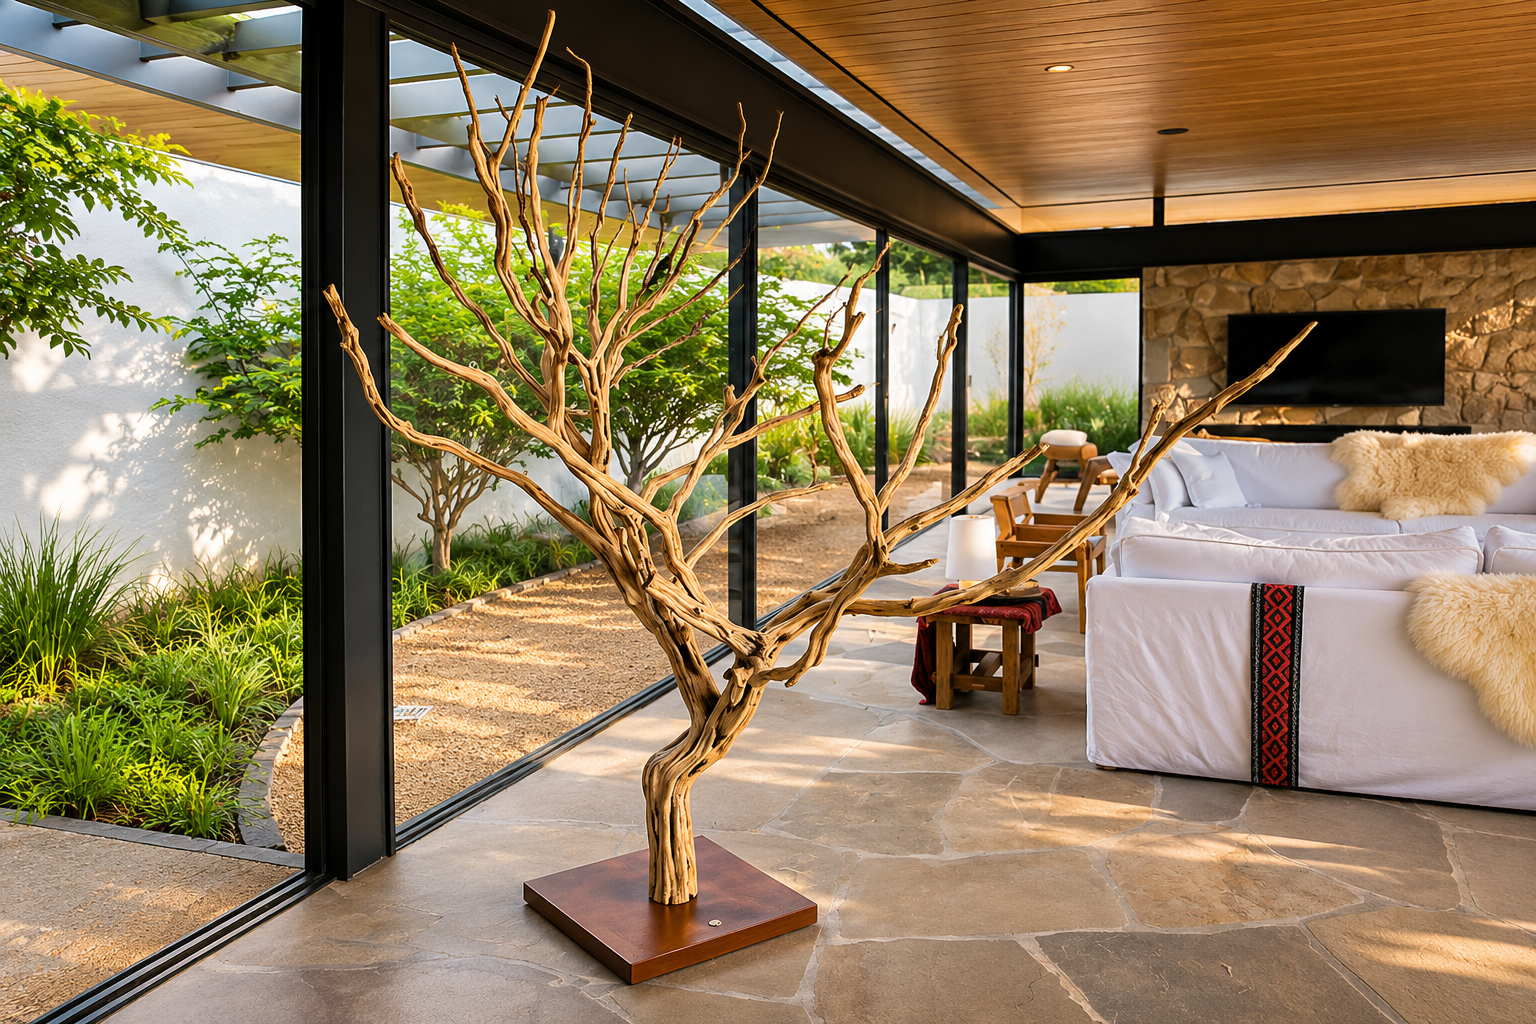
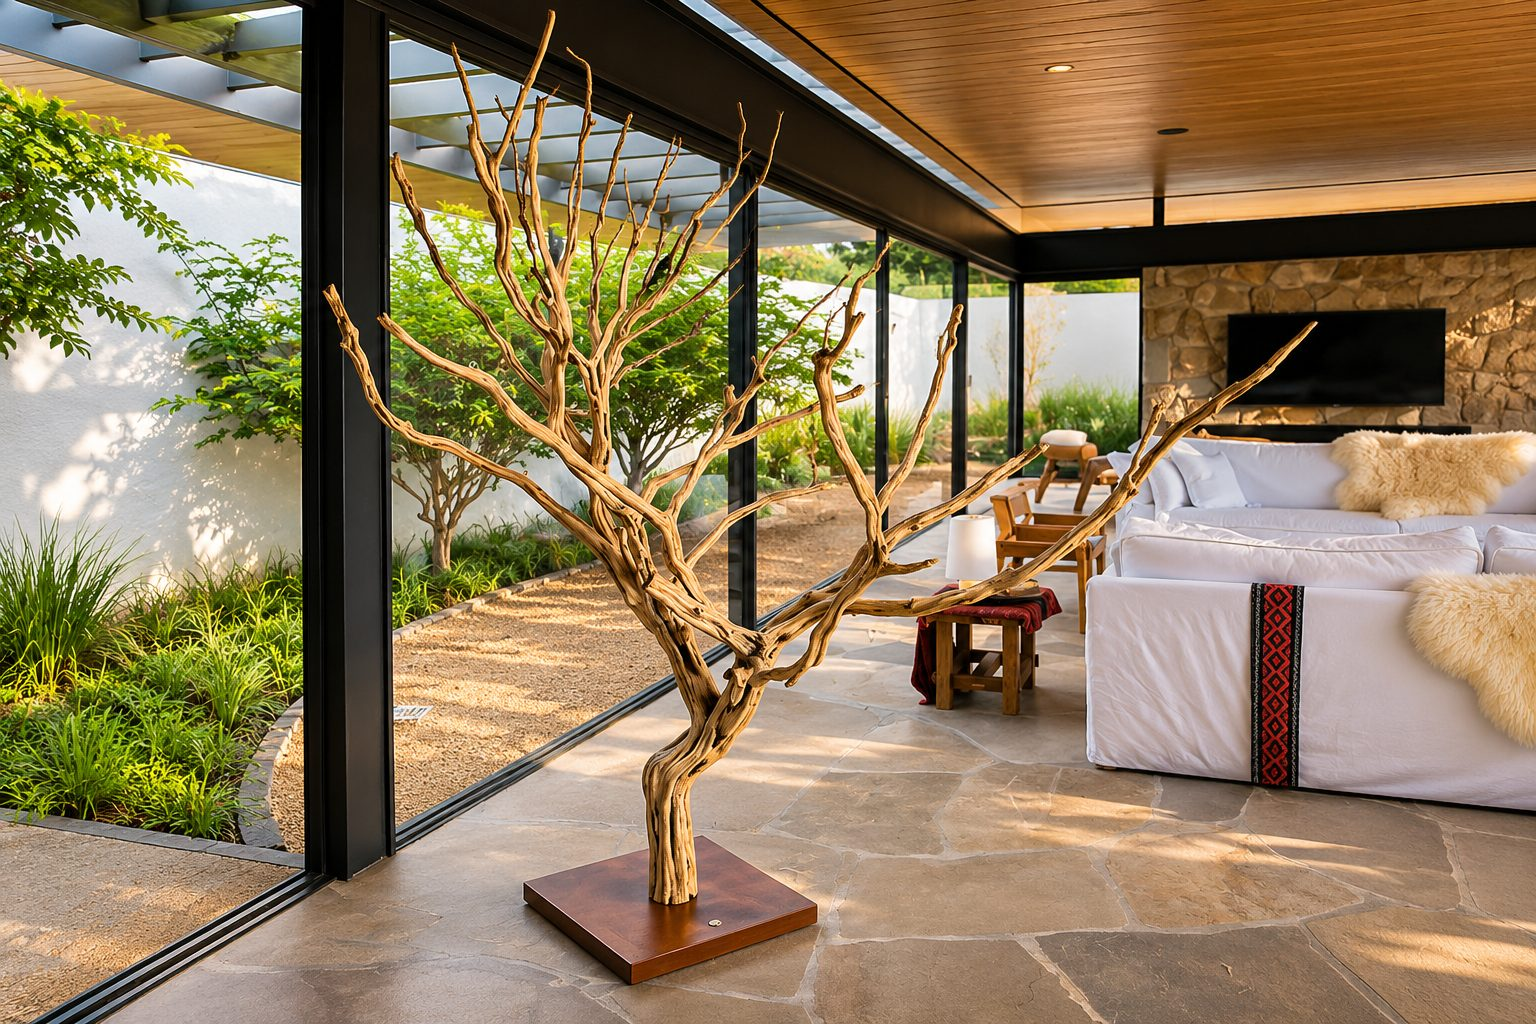
Otimizacao de performance extrema: lazy load de videos com posters webp e hero em webp

diff --git a/src/components/home/05_VideoShowcaseSection.tsx b/src/components/home/05_VideoShowcaseSection.tsx
@@ -8,6 +8,7 @@ interface ShowcaseVideo {
   title: string;
   subtitle: string;
   src: string;
+  poster: string;
 }
 
 const SHOWCASE_VIDEOS: ShowcaseVideo[] = [
@@ -16,18 +17,21 @@ const SHOWCASE_VIDEOS: ShowcaseVideo[] = [
     title: 'Por Que Confiar',
     subtitle: 'Segurança & Origem Legal',
     src: '/images/confiar.mp4',
+    poster: '/images/confiar-poster.webp',
   },
   {
     id: 'diferencial',
     title: 'Nossos Diferenciais',
     subtitle: 'Exclusividade & Mestria Autoral',
     src: '/images/diferencial.mp4',
+    poster: '/images/diferencial-poster.webp',
   },
   {
     id: 'vendameio',
     title: 'Processo & Atendimento',
     subtitle: 'Cuidado do Início ao Fim',
     src: '/images/vendameio.mp4',
+    poster: '/images/vendameio-poster.webp',
   },
 ];
 
@@ -206,7 +210,8 @@ export const VideoShowcaseSection: React.FC = () => {
                         videoRefs.current[item.id] = el;
                       }}
                       playsInline
-                      preload="metadata"
+                      preload="none"
+                      poster={item.poster}
                       controls={playingVideoId === item.id}
                       onPlay={() => handlePlay(item.id)}
                       onPause={() => {

diff --git a/src/components/home/01_HeroSection.tsx b/src/components/home/01_HeroSection.tsx
@@ -5,10 +5,10 @@ import { WHATSAPP_BASE_URL } from "../../data/products";
 export function HeroSection() {
   return (
     <section className="relative h-[100dvh] w-full overflow-hidden bg-[#141414]">
-      {/* 1. Background Image Layer - Apenas a foto hero.png com os gradientes idênticos ao layout de exemplo */}
+      {/* 1. Background Image Layer - Apenas a foto hero.webp com os gradientes idênticos ao layout de exemplo */}
       <div className="absolute inset-0 z-0 h-full w-full">
         <img
-          src="/images/hero.png"
+          src="/images/hero.webp"
           alt="Amadeireira — Móveis Autorais de Madeira Maciça"
           fetchPriority="high"
           decoding="async"

diff --git a/index.html b/index.html
@@ -36,7 +36,7 @@
     <link rel="preconnect" href="https://fonts.gstatic.com" crossorigin />
 
     <!-- Preload Critical Above-The-Fold Hero Assets -->
-    <link rel="preload" as="image" href="/images/hero.png" type="image/png" fetchpriority="high" />
+    <link rel="preload" as="image" href="/images/hero.webp" type="image/webp" fetchpriority="high" />
 
     <!-- Google Fonts: Alfa Slab One + Bebas Neue + Plus Jakarta Sans (Non-blocking) -->
     <link

diff --git a/src/components/home/03_CategoriesShowcaseSection.tsx b/src/components/home/03_CategoriesShowcaseSection.tsx
@@ -160,7 +160,8 @@ export const CategoriesShowcaseSection: React.FC = () => {
             aria-label={item.alt}
             playsInline
             controls
-            preload="auto"
+            preload="none"
+            poster={item.thumbnail}
             className="w-full h-full object-contain object-center"
           >
             <source src={item.src} type={isMov ? 'video/quicktime' : 'video/mp4'} />

diff --git a/src/components/home/09_ProductionEnvironmentSection.tsx b/src/components/home/09_ProductionEnvironmentSection.tsx
@@ -81,7 +81,8 @@ export const ProductionEnvironmentSection: React.FC = () => {
               aria-label={item.alt}
               playsInline
               controls
-              preload="auto"
+              preload="none"
+              poster={item.thumbnail}
               className="w-full h-full object-contain object-center"
             >
               <source src={item.src} type="video/mp4" />
